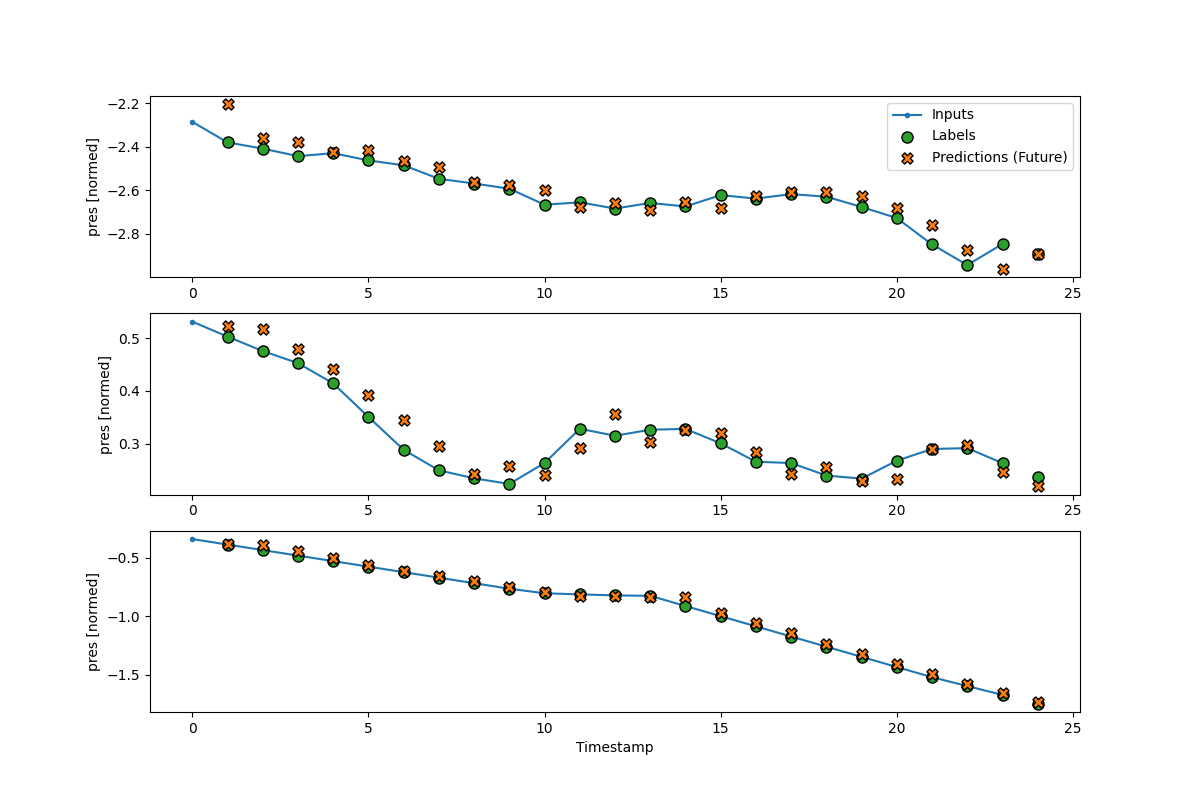
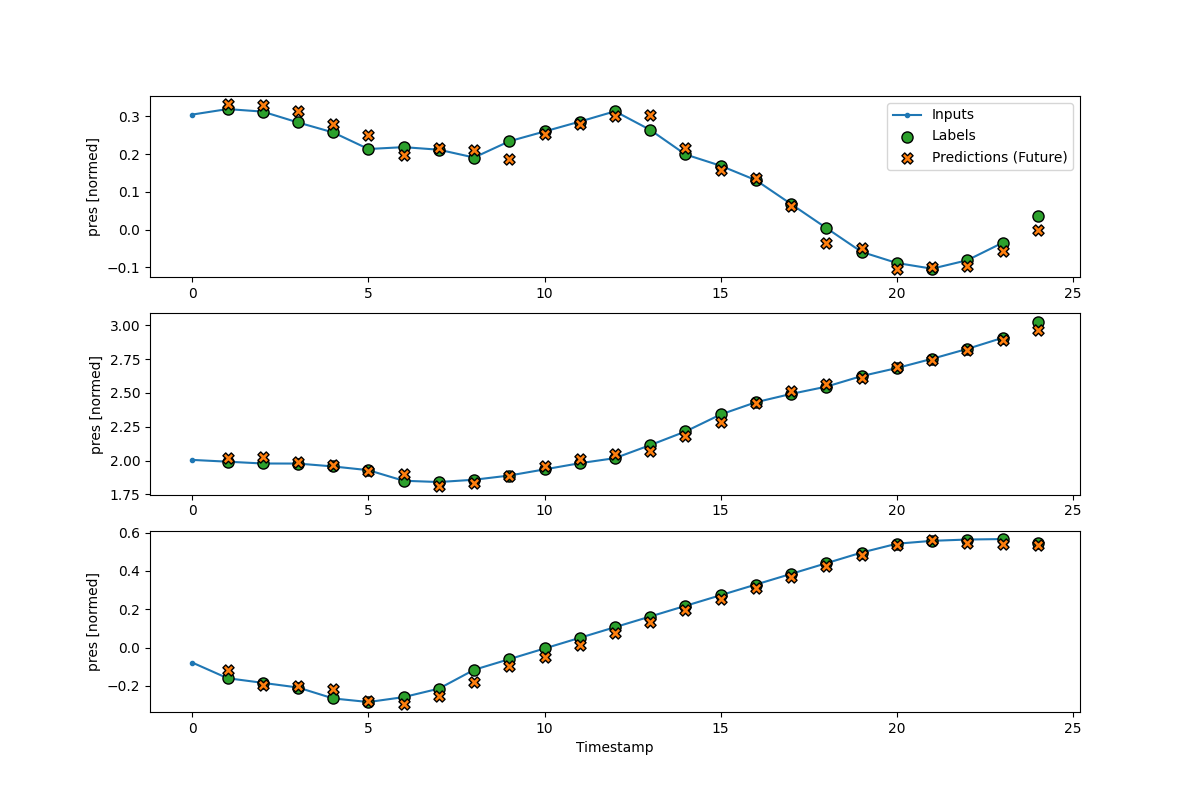
Correct LSTM MAE calculated for each param

diff --git a/lstm.py b/lstm.py
@@ -125,9 +125,11 @@ def compile_and_fit(model, window, patience=2):
   history = model.fit(window.train, epochs=MAX_EPOCHS,
                       validation_data=window.val,
                       callbacks=[early_stopping])
-  return history
 
-def plot_future_train_set(self, model, plot_col='pres', max_subplots=3, save_folder='train_set_predictions_lstm'):
+  mae_values = history.history['mean_absolute_error']
+  return history, mae_values
+
+def plot_future_train_set(self, model, plot_col, max_subplots=3, save_folder='train_set_predictions_lstm'):
     inputs, labels = self.example
     plt.figure(figsize=(12, 8))
     plot_col_index = self.column_indices[plot_col]
@@ -189,8 +191,9 @@ WindowGenerator.example = example
 WindowGenerator.plot_future_train_set = plot_future_train_set
 
 if __name__ == '__main__':
+
     file_path = "./SensorMLDataset.csv"
-    parameter_to_load = 'pres'
+
     train_df, val_df, test_df = split_data(file_path)
     train_mean = train_df.mean()
     train_std = train_df.std()
@@ -199,81 +202,86 @@ if __name__ == '__main__':
     val_df = (val_df - train_mean) / train_std
     test_df = (test_df - train_mean) / train_std
 
-    wide_window = WindowGenerator(
-        # [[[1], [2], [3], [4], [5]]] [6]
-        # [[[2], [3], [4], [5], [6]]] [7]
-        # [[[3], [4], [5], [6], [7]]] [8]
-        #the model takes 24 consecutive observations as input
-        #i am predicting the pres parameter for the next 24 hours
-        #shift is 1 between consecutive windows
-        input_width=24, label_width=24, shift=1, train_df= train_df,
-        val_df=val_df, test_df=test_df,
-        label_columns=['pres'])
+    df = pd.read_csv(file_path)
+
+    ### Save the average MAE for every param
+    average_mae_per_param = []
+
+    for param in df.columns:
+        if param != 'Timestamp':
+
+            wide_window = WindowGenerator(
+                #the model takes 24 consecutive observations as input
+                #i am predicting the pres parameter 1 hour into the future
+                #shift is 1 between consecutive windows
+                input_width=24, label_width=24, shift=1, train_df= train_df,
+                val_df=val_df, test_df=test_df,
+                label_columns=[param])
+            print(wide_window)
 
 
-    lstm_model = tf.keras.models.Sequential([
-        # Shape [batch, time, features] => [batch, time, lstm_units]
-        tf.keras.layers.LSTM(32, return_sequences=True),
-        # Shape => [batch, time, features]
-        tf.keras.layers.Dense(units=1)
-    ])
-    print('Input shape:', wide_window.example[0].shape)
-    print('Output shape:', lstm_model(wide_window.example[0]).shape)
+            lstm_model = tf.keras.models.Sequential([
+                # Shape [batch, time, features] => [batch, time, lstm_units]
+                tf.keras.layers.LSTM(32, return_sequences=True),
+                # Shape => [batch, time, features]
+                tf.keras.layers.Dense(units=1)
+            ])
+            #print('Input shape:', wide_window.example[0].shape)
+            #print('Output shape:', lstm_model(wide_window.example[0]).shape)
 
-    history = compile_and_fit(lstm_model, wide_window)
+            history, mae_values = compile_and_fit(lstm_model, wide_window)
+            average_mae = np.mean(mae_values)
+            print("Average Mean Absolute Error:", average_mae)
+            average_mae_per_param.append(average_mae)
 
-    val_performance = {}
-    performance = {}
-    IPython.display.clear_output()
-    val_performance['LSTM'] = lstm_model.evaluate(wide_window.val)
-    performance['LSTM'] = lstm_model.evaluate(wide_window.test, verbose=0)
-
-    #wide_window.plot(lstm_model)
-
-    ### TEST ACCURACY OF OBTAINED DATA ###
-    train_predictions = lstm_model.predict(wide_window.train)
-    train_predictions = train_predictions * train_std['pres'] + train_mean['pres']
-
-    val_predictions = lstm_model.predict(wide_window.val)
-    val_predictions = val_predictions * train_std['pres'] + train_mean['pres']
-
-    test_predictions = lstm_model.predict(wide_window.test)
-    test_predictions = test_predictions * train_std['pres'] + train_mean['pres']
+            val_performance = {}
+            performance = {}
+            IPython.display.clear_output()
+            val_performance['LSTM'] = lstm_model.evaluate(wide_window.val)
+            performance['LSTM'] = lstm_model.evaluate(wide_window.test, verbose=0)
 
 
-    # De-normalize actual values
-    train_actual_values = wide_window.train_df['pres'].values * train_std['pres'] + train_mean['pres']
-    train_actual_values = train_actual_values[24:]
-    val_actual_values = wide_window.val_df['pres'].values * train_std['pres'] + train_mean['pres']
-    val_actual_values = val_actual_values[24:]
-    test_actual_values = wide_window.test_df['pres'].values * train_std['pres'] + train_mean['pres']
-    test_actual_values = test_actual_values[24:]
 
-    sets = {
-        'Test': {'actual_values': test_actual_values, 'predicted_values': test_predictions},
-        'Validation': {'actual_values': val_actual_values, 'predicted_values': val_predictions},
-        'Eval': {'actual_values': test_actual_values, 'predicted_values': test_predictions}
-    }
+            ### TEST ACCURACY OF OBTAINED DATA - TO DO ###
+            train_predictions = lstm_model.predict(wide_window.train)
+            train_predictions = train_predictions * train_std[param] + train_mean[param]
 
-    for set_name, set_data in sets.items():
-        actual_values = set_data['actual_values']
-        predicted_values = set_data['predicted_values']
+            val_predictions = lstm_model.predict(wide_window.val)
+            val_predictions = val_predictions * train_std[param] + train_mean[param]
 
-        mae = calculate_mae(actual_values, predicted_values[:, -1])
-        print(f'{set_name} Mean Absolute Error: {mae}')
-
-        #actual_vs_predicted = create_actual_vs_predicted_list(actual_values, predicted_values)
-
-        #print(f"Actual versus Predicted Values for {set_name} Set:")
-        #for actual, predicted in actual_vs_predicted:
-        #    print(f"Actual: {actual}, Predicted: {predicted}")
-
-    wide_window.plot_future_train_set(lstm_model)
+            test_predictions = lstm_model.predict(wide_window.test)
+            test_predictions = test_predictions * train_std[param] + train_mean[param]
 
 
-    print(test_predictions.shape)
-    ### PREDICT THE NEXT 24 HOURS ###
-    print(test_predictions[-24:, -1, 0])
+            # De-normalize actual values - so as to show the last graphic with the next 1 hour prediction
+            train_actual_values = wide_window.train_df[param].values * train_std[param] + train_mean[param]
+            train_actual_values = train_actual_values[:-24]
+            val_actual_values = wide_window.val_df[param].values * train_std[param] + train_mean[param]
+            val_actual_values = val_actual_values[:-24]
+            test_actual_values = wide_window.test_df[param].values * train_std[param] + train_mean[param]
+            test_actual_values = test_actual_values[:-24]
+
+            sets = {
+                'Test': {'actual_values': test_actual_values, 'predicted_values': test_predictions},
+                'Validation': {'actual_values': val_actual_values, 'predicted_values': val_predictions},
+                'Eval': {'actual_values': test_actual_values, 'predicted_values': test_predictions}
+            }
+
+            for set_name, set_data in sets.items():
+                actual_values = set_data['actual_values']
+                predicted_values = set_data['predicted_values']
+
+
+                #actual_vs_predicted = create_actual_vs_predicted_list(actual_values, predicted_values)
+
+                #print(f"Actual versus Predicted Values for {set_name} Set:")
+                #for actual, predicted in actual_vs_predicted:
+                #    print(f"Actual: {actual}, Predicted: {predicted}")
+
+            wide_window.plot_future_train_set(lstm_model,param)
+
+
+            #### PRINT THE LAST HOUR PREDICTED INTO THE FUTURE (SCALED)
 
 
 
